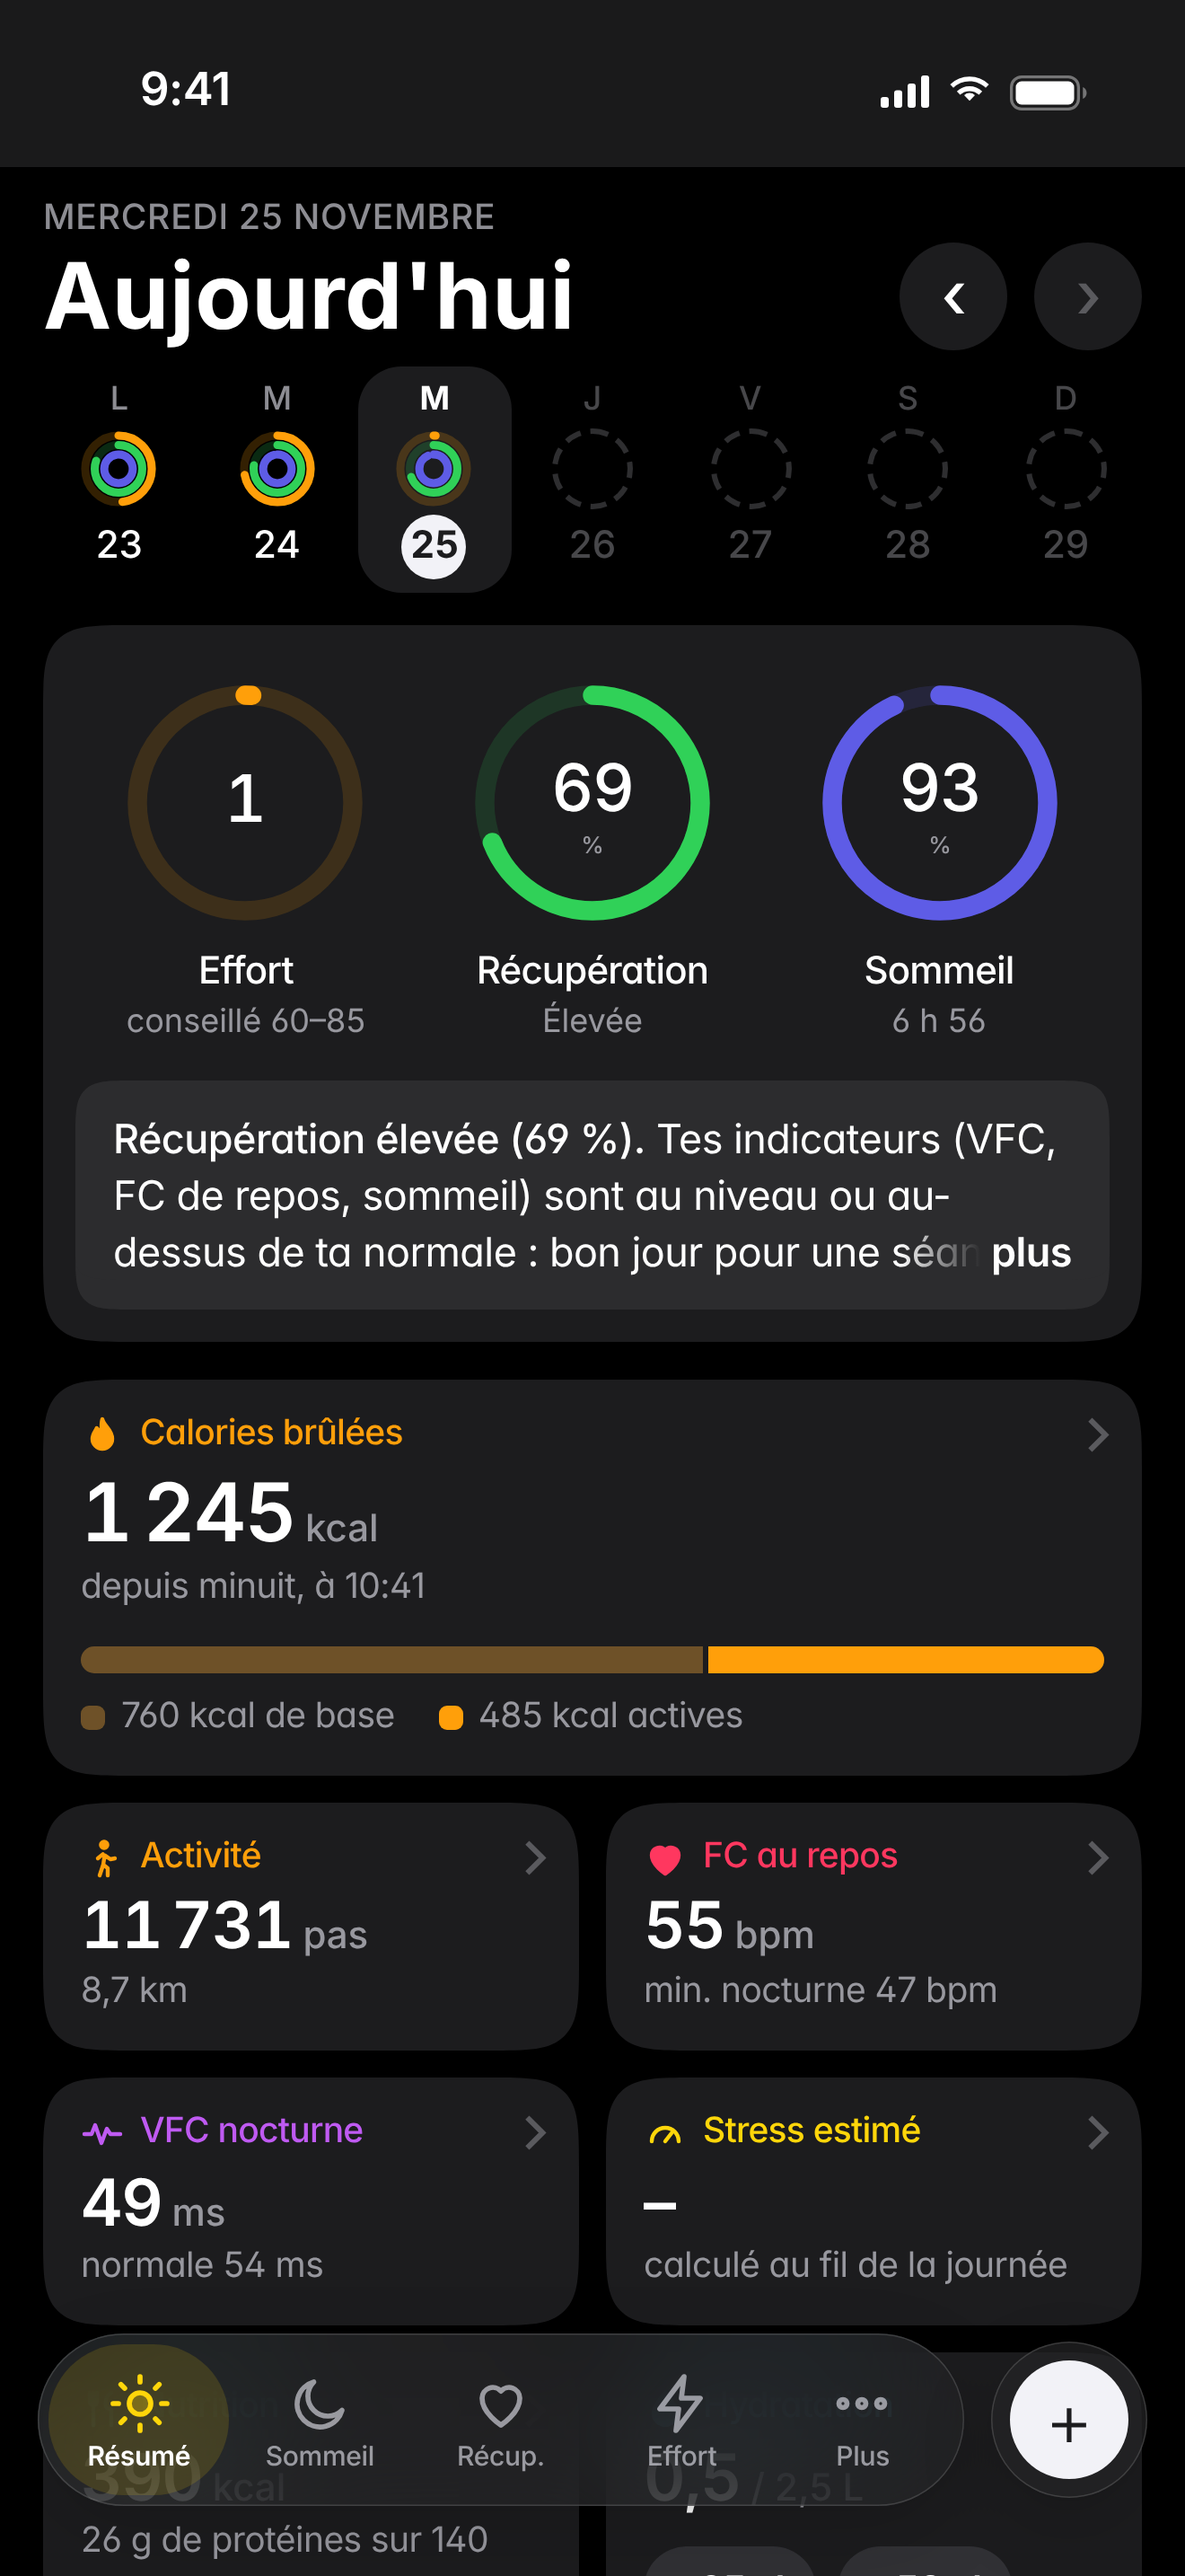
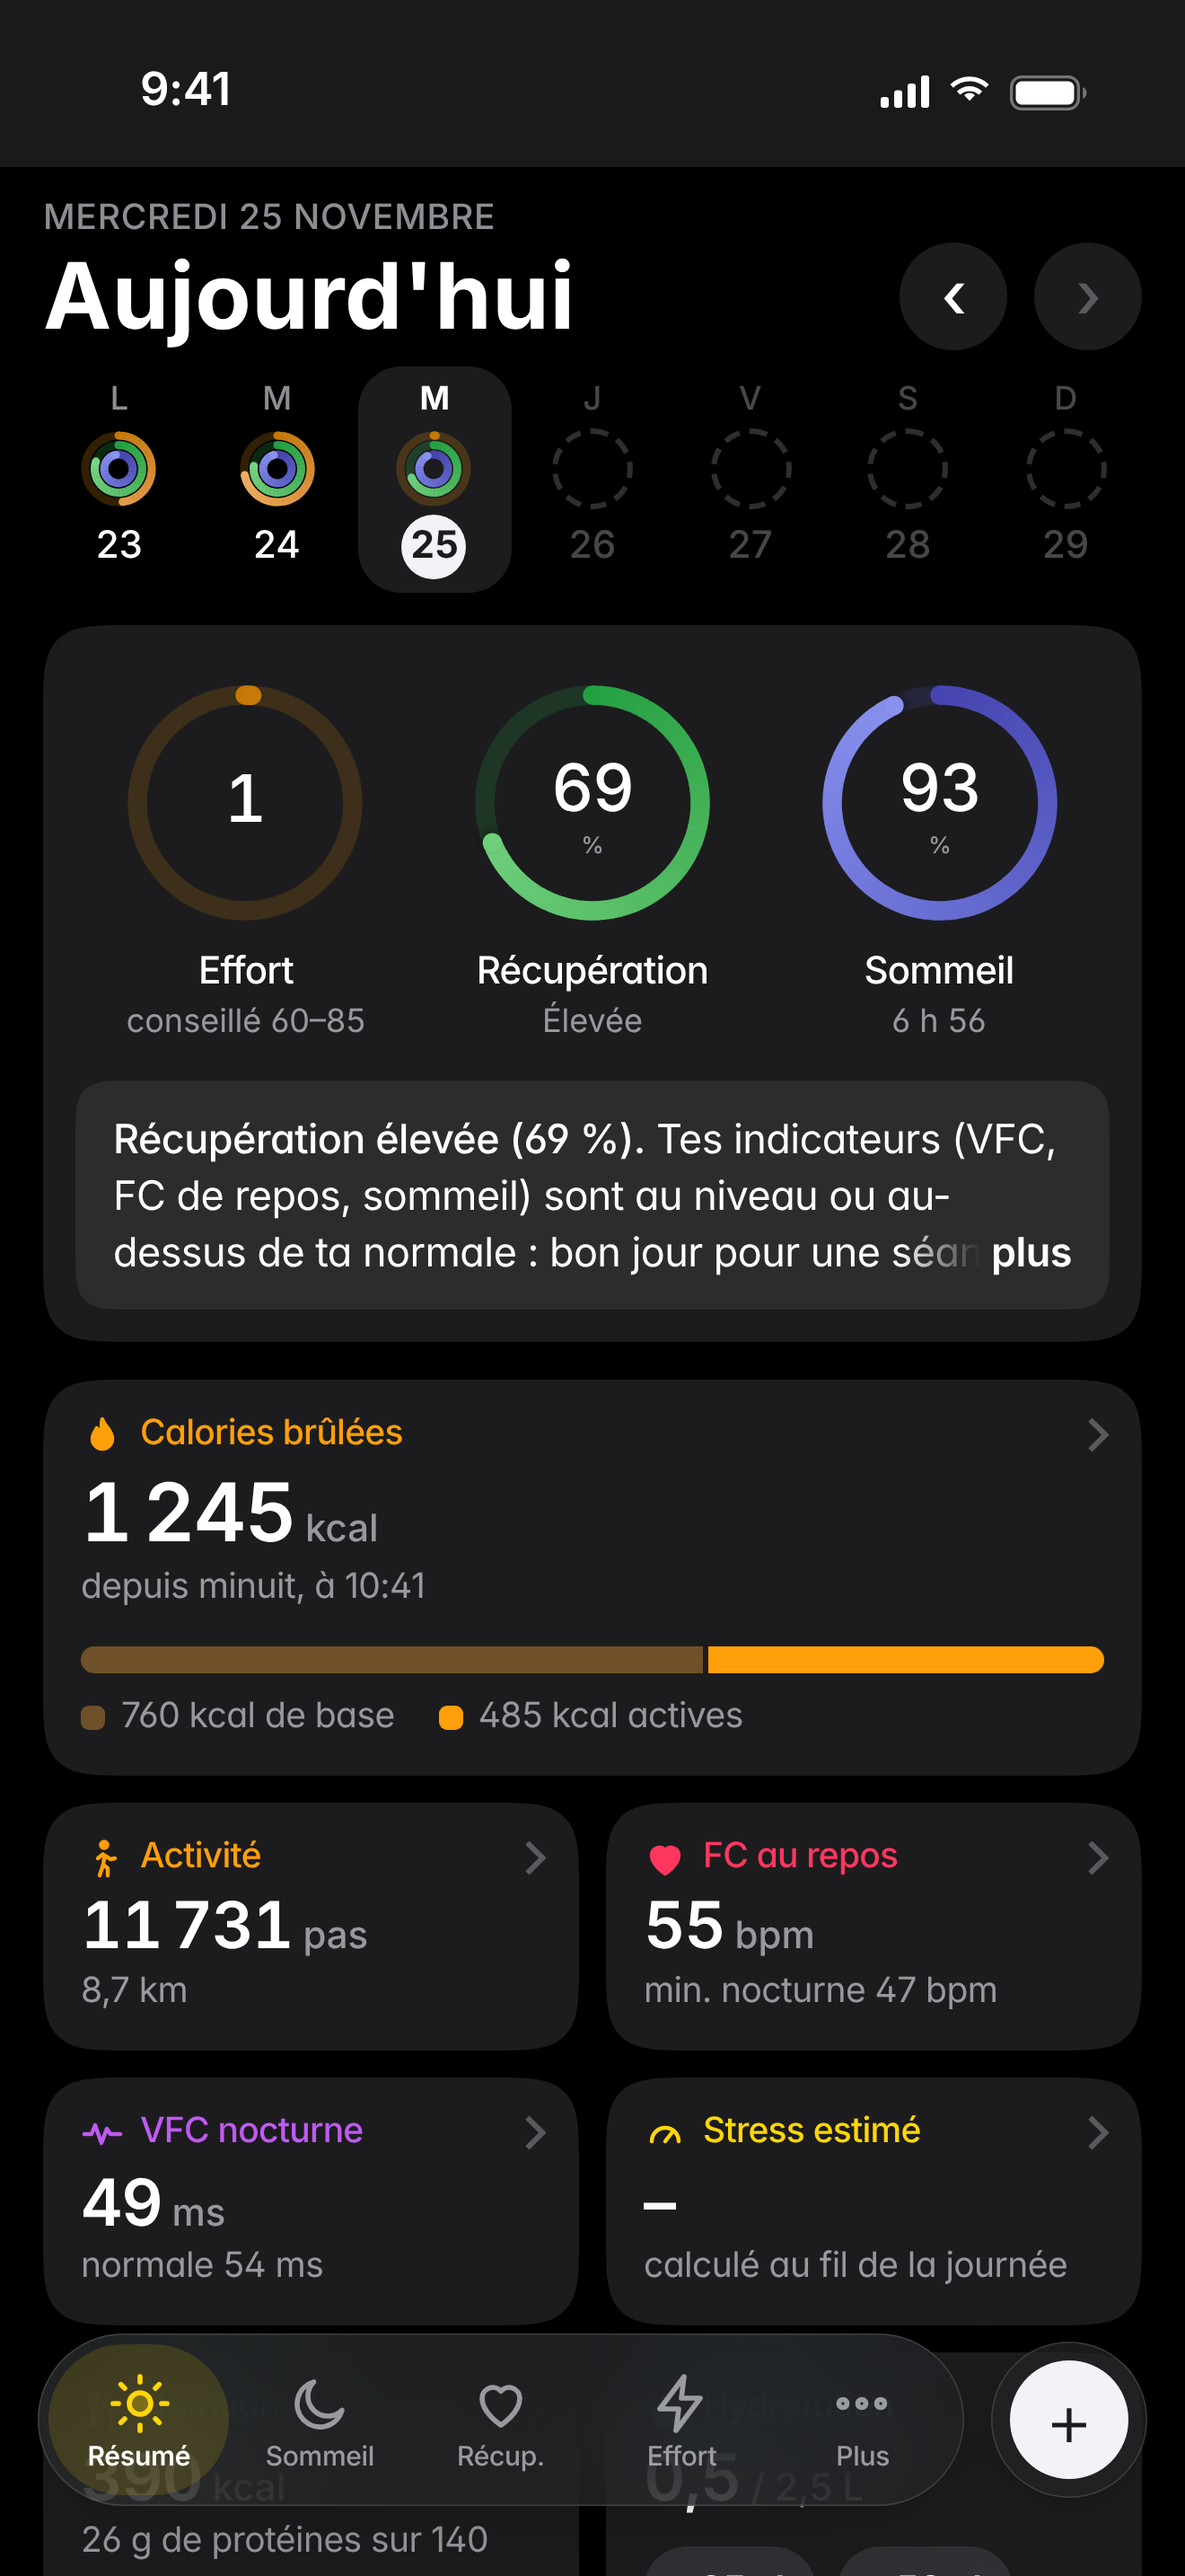
Anneaux en dégradé façon Activité, remplissage animé ; iOS 17.5 minimum
- anneaux (Résumé, Sommeil, Récupération, Effort, frise de la semaine) : dégradé angulaire
  d'un ton profond à un ton plus clair, bouts arrondis, légère ombre sous l'extrémité
- remplissage animé quand la valeur change (pas à chaque rafraîchissement), désactivé si
  l'utilisateur limite les animations
- iOS 17.5 minimum : les couleurs clair / sombre de l'interface (light-dark) n'existent
  dans Safari qu'à partir de cette version
- captures App Store régénérées

Claude-Session: https://claude.ai/code/session_015H5AcnZF4Qe2vCaE56TQbC

diff --git a/src/main.js b/src/main.js
@@ -217,8 +217,19 @@ function drawHyp(f){const s=f.querySelector('svg'),c=f._d,W=f.clientWidth,H2=f.c
   return{gx:Xf(m),mk:[],ty:top+lh*2,html:`<div class="d">${hhmm(m)}</div>${sx?`<div><i class="sw" style="background:${SC[sx[2]]}"></i>${SN[sx[2]]} : <b>${hhmm(sx[0])} – ${hhmm(sx[1])}</b> (${fmtSl(sx[1]-sx[0])})</div>`:''}${hv?`<div><i class="sw" style="background:var(--hrt)"></i>FC : <b>${hv} bpm</b></div>`:''}${pv?`<div><i class="sw" style="background:var(--mind)"></i>VFC ${hvLab()} à ${hhmm(pv[0])} : <b>${r0(pv[1])} ms</b></div>`:''}`}}};
  interact(f)}
 const nar=W=>W<520;
-function gaugeSVG(v,col,unit,max=100){const r=56,C=2*Math.PI*r,p=v==null?0:clamp(v/max,0,1);return `<svg viewBox="0 0 140 140" aria-hidden="true"><circle cx="70" cy="70" r="${r}" fill="none" stroke="${col}" stroke-opacity=".15" stroke-width="13"/><circle cx="70" cy="70" r="${r}" fill="none" stroke="${col}" stroke-width="13" stroke-linecap="round" stroke-dasharray="${(C*p).toFixed(1)} ${C.toFixed(1)}" transform="rotate(-90 70 70)"${p<=0?' opacity="0"':''}/><text class="gv" x="70" y="${unit?74:80}" text-anchor="middle">${v==null?'–':Math.round(v)}</text>${unit?`<text class="gu" x="70" y="96" text-anchor="middle">${unit}</text>`:''}</svg>`}
-function gauge(v,col,label,sub,link,unit='%',big){return `<${link?'button':'div'} class="gauge${big?' big':''}"${link?` data-go="${link}"`:''}>${gaugeSVG(v,col,unit)}<b>${label}</b><span>${sub||''}</span></${link?'button':'div'}>`}
+/* Anneaux : dégradé angulaire (ton profond au départ, plus clair au bout) dessiné en petits segments,
+   bouts arrondis, légère ombre sous l'extrémité ; remplissage animé quand la valeur change. */
+let ringN=0;const ringSeen=new Map();
+function arcRing(cx,cy,r,w,p,col,id,shadow=true){if(!(p>0))return'';p=Math.min(p,0.9995);
+ const a0=-Math.PI/2,a1=a0+p*2*Math.PI,N=Math.max(2,Math.ceil(p*(r>20?90:36))),dk=`color-mix(in oklab, ${col} 82%, #000)`,lt=`color-mix(in oklab, ${col} 66%, #fff)`,
+  mix=t=>`color-mix(in oklab, ${dk} ${Math.round((1-t)*100)}%, ${lt})`,P=a=>[cx+r*Math.cos(a),cy+r*Math.sin(a)],f=v=>v.toFixed(2);
+ let g='';for(let k=0;k<N;k++){const s0=a0+(a1-a0)*k/N,s1=Math.min(a1,a0+(a1-a0)*(k+1)/N+0.01),[x0,y0]=P(s0),[x1,y1]=P(s1);g+=`<path d="M${f(x0)} ${f(y0)}A${r} ${r} 0 0 1 ${f(x1)} ${f(y1)}" style="stroke:${mix((k+.5)/N*p)}" stroke-width="${w}" fill="none"/>`}
+ const [sx,sy]=P(a0),[ex,ey]=P(a1),dx=Math.cos(a1+Math.PI/2)*w*.22,dy=Math.sin(a1+Math.PI/2)*w*.22;
+ return `<circle cx="${f(sx)}" cy="${f(sy)}" r="${w/2}" style="fill:${mix(0)}"/>${g}${shadow&&p>.04?`<circle cx="${f(ex+dx)}" cy="${f(ey+dy)}" r="${w/2}" fill="#000" opacity=".3" filter="url(#${id}b)"/>`:''}<circle cx="${f(ex)}" cy="${f(ey)}" r="${w/2}" style="fill:${mix(p)}"/>`}
+function gaugeSVG(v,col,unit,max=100,key){const r=56,w=10,p=v==null?0:clamp(v/max,0,1),id='rg'+(++ringN);
+ const an=!!key&&p>0&&ringSeen.get(key)!==p&&!matchMedia('(prefers-reduced-motion: reduce)').matches;if(key)ringSeen.set(key,p);
+ return `<svg viewBox="0 0 140 140" aria-hidden="true"><defs><filter id="${id}b" x="-60%" y="-60%" width="220%" height="220%"><feGaussianBlur stdDeviation="2"/></filter>${an?`<mask id="${id}m"><circle class="ringgrow" cx="70" cy="70" r="${r}" fill="none" stroke="#fff" pathLength="100" stroke-dasharray="100 100" stroke-dashoffset="100" transform="rotate(-97 70 70)"/></mask>`:''}</defs><circle cx="70" cy="70" r="${r}" fill="none" stroke="${col}" stroke-opacity=".15" stroke-width="${w}"/><g${an?` mask="url(#${id}m)"`:''}>${arcRing(70,70,r,w,p,col,id)}</g><text class="gv" x="70" y="${unit?74:80}" text-anchor="middle">${v==null?'–':Math.round(v)}</text>${unit?`<text class="gu" x="70" y="96" text-anchor="middle">${unit}</text>`:''}</svg>`}
+function gauge(v,col,label,sub,link,unit='%',big){return `<${link?'button':'div'} class="gauge${big?' big':''}"${link?` data-go="${link}"`:''}>${gaugeSVG(v,col,unit,100,label+'|'+S.day+(big?'|b':''))}<b>${label}</b><span>${sub||''}</span></${link?'button':'div'}>`}
 const zbar=z=>{const t=(z||[]).reduce((a,b)=>a+b,0);return t?`<div class="zb">${z.map((m,i)=>m?`<i style="width:${m/t*100}%;background:${ZC[i]}"></i>`:'').join('')}</div>`:''};
 const zleg=z=>`<div class="zl">${(z||[]).map((m,i)=>m?`<span><i style="--c:${ZC[i]}"></i>Z${i+1} ${m} min</span>`:'').join('')}</div>`;
 
@@ -233,7 +244,7 @@ function renderDayNav(){const d=S.day,v0=cur(),rel=d===today()?"Aujourd'hui":d==
 }
 
 /* ---------- frise de la semaine : un mini-anneau par jour (comme l'app Forme) ---------- */
-function ringSVG(rings){const sz=34,c=sz/2;return `<svg viewBox="0 0 ${sz} ${sz}" aria-hidden="true">${rings.map(([v,col,r,w])=>{const C=2*Math.PI*r,p=v==null?0:clamp(v/100,0,1);return `<circle cx="${c}" cy="${c}" r="${r}" fill="none" stroke="${col}" stroke-opacity=".2" stroke-width="${w}"/>${p>0?`<circle cx="${c}" cy="${c}" r="${r}" fill="none" stroke="${col}" stroke-width="${w}" stroke-linecap="round" stroke-dasharray="${(C*p).toFixed(2)} ${C.toFixed(2)}" transform="rotate(-90 ${c} ${c})"/>`:''}`}).join('')}</svg>`}
+function ringSVG(rings){const sz=34,c=sz/2,id='rw'+(++ringN);return `<svg viewBox="0 0 ${sz} ${sz}" aria-hidden="true">${rings.map(([v,col,r,w])=>{const p=v==null?0:clamp(v/100,0,1);return `<circle cx="${c}" cy="${c}" r="${r}" fill="none" stroke="${col}" stroke-opacity=".2" stroke-width="${w}"/>${arcRing(c,c,r,w,p,col,id,false)}`}).join('')}</svg>`}
 function renderWeek(v){const d=S.day,t=today(),wd=(new Date(d+'T12:00').getDay()+6)%7,mon=addD(d,-wd),L='LMMJVSD';
  const val=(f,x)=>{try{const r=f(x);return r==null?null:typeof r==='object'?r.s:r}catch(e){return null}};
  $('#wk').innerHTML=[0,1,2,3,4,5,6].map(i=>{const x=addD(mon,i),fut=x>t;

diff --git a/src/styles.css b/src/styles.css
@@ -803,3 +803,9 @@ label.btn.filebtn:not(.pri){color:var(--ink)}
 }
 /* coach replié : le texte est coupé net après 3 lignes (la marge du bas devient une bordure, hors zone de défilement) */
 @media(max-width:800px){#coach{padding-bottom:0;border-bottom:11px solid var(--panel2)}#coach.more:not(.open)::after{bottom:0}}
+
+/* ---------- anneaux : remplissage animé ---------- */
+.gauge svg mask circle{stroke-width:18}
+.ringgrow{animation:ringgrow 1s cubic-bezier(.2,.75,.2,1) .05s forwards}
+@keyframes ringgrow{to{stroke-dashoffset:0}}
+@media(prefers-reduced-motion:reduce){.ringgrow{animation:none;stroke-dashoffset:0}}

diff --git a/ios/App/CapApp-SPM/Package.swift b/ios/App/CapApp-SPM/Package.swift
@@ -4,7 +4,7 @@ import PackageDescription
 // DO NOT MODIFY THIS FILE - managed by Capacitor CLI commands
 let package = Package(
     name: "CapApp-SPM",
-    platforms: [.iOS(.v16)],
+    platforms: [.iOS(.v17)],
     products: [
         .library(
             name: "CapApp-SPM",

diff --git a/docs/APP_STORE.md b/docs/APP_STORE.md
@@ -5,7 +5,7 @@ le dossier `ios/` contient le projet Xcode, qui embarque la version compilée de
 
 ## Ce qui est déjà prêt
 
-- Projet Xcode (`ios/App`), iPhone uniquement, portrait, iOS 16 minimum, en français.
+- Projet Xcode (`ios/App`), iPhone uniquement, portrait, iOS 17.5 minimum (nécessaire aux couleurs clair / sombre de l’interface), en français.
 - **Lecture directe d'Apple Santé (HealthKit)**, en lecture seule : module natif
   `ios/App/App/HealthSyncPlugin.swift`, capacité HealthKit (`App.entitlements`) et texte
   d'autorisation (`NSHealthShareUsageDescription` dans `Info.plist`). Voir plus bas.
